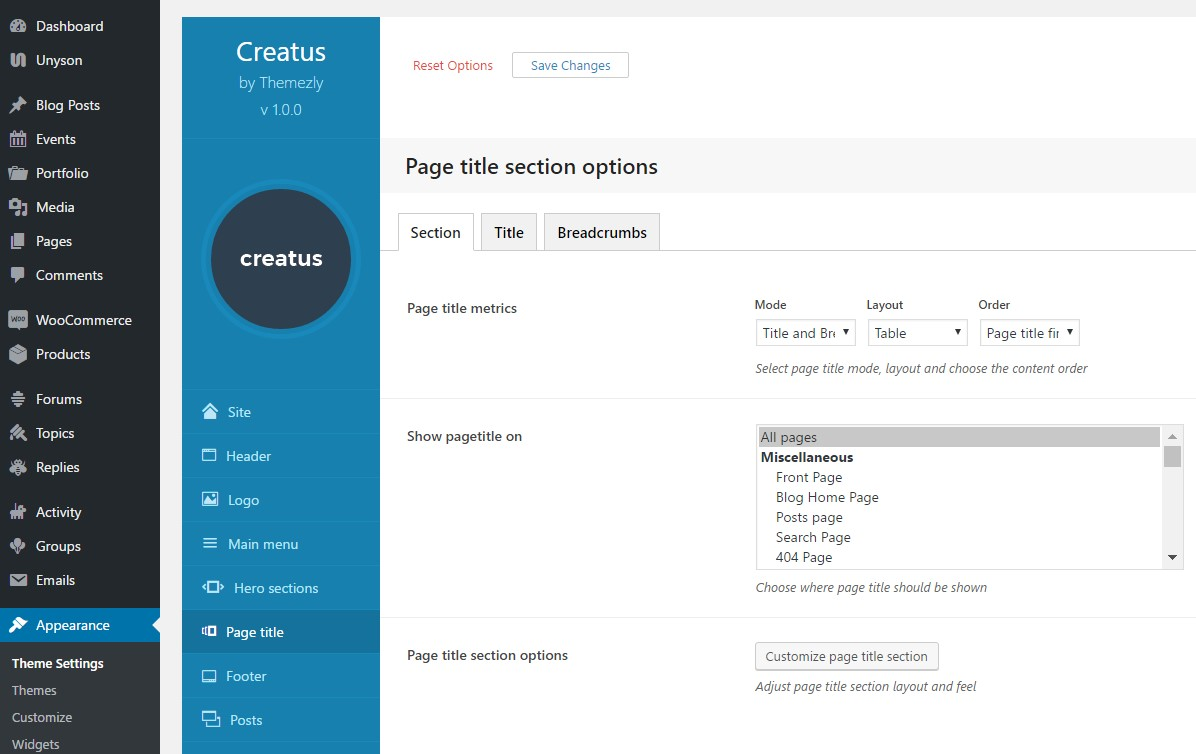
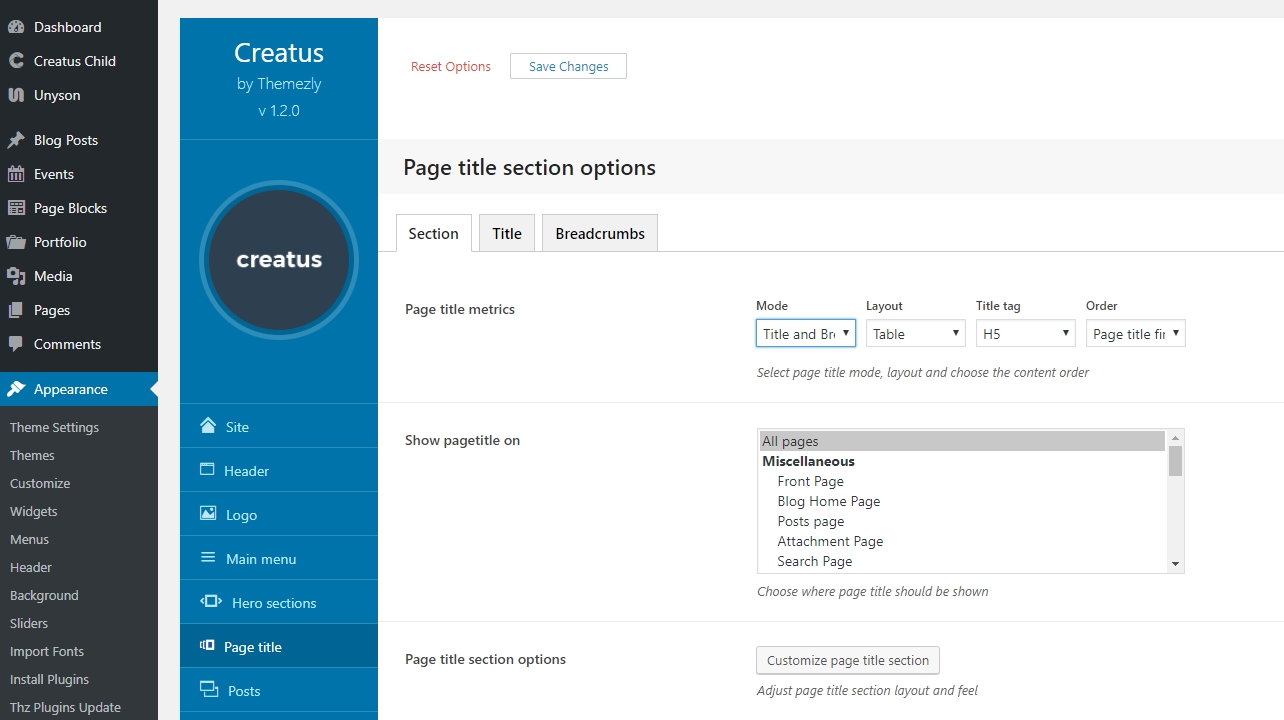
1.2.0 update

Changed region(s): [[0.0, 0.0, 0.5569, 1.0], [0.5878, 0.3972, 0.99, 0.9778], [0.0, 0.0306, 0.0928, 0.0917]]

diff --git a/pages/theme-settings/advanced-options.md b/pages/theme-settings/advanced-options.md
@@ -16,6 +16,7 @@ To access Creatus __Advanced Options__ please go to __Appearance__ >  __Theme Se
 1. <a href="#apis" class="thz-scroll">__API's__</a> &nbsp;-&nbsp; Global API's options.
 1. <a href="#optimization" class="thz-scroll">__Optimization__</a> &nbsp;-&nbsp; Global Optimization options.
 1. <a href="#cookies-consent" class="thz-scroll">__Cookies Consent__</a> &nbsp;-&nbsp; Cookies Consent options.
+1. <a href="#customizer" class="thz-scroll">__Customizer__</a> &nbsp;-&nbsp; Customizer options.
 
 &nbsp;
 
@@ -116,3 +117,16 @@ __Button__ section tab contains following options;
 1. __Create button__ &nbsp;-&nbsp; Customize the consent popup button.
 
 </div>
+
+<div id="customizer" markdown="1">
+### Customizer
+<div class="thz-doc-image max">
+<a class="thz-lightbox mfp-image" href="../../docs-media/customizer.jpg" data-mfp-title="Creatus WordPress Theme Customizer" data-modal-size="large">
+	<img src="../../docs-media/customizer.jpg" alt="Creatus WordPress Theme Customizer" />
+</a>
+</div>
+
+1. __Customizer mode__ &nbsp;-&nbsp; Set default customizer theme options mode. If mode is popups, every theme options set you see in theme panel will be opened in a customizer popup and preview is visible once the popup is saved and closed. The popup setting will also speed up the first page load when entering the customizer.
+1. __Customizer panels__ &nbsp;-&nbsp; Activate/deactivate specific customizer accordion/popup panels.
+1. __Options override notice__ &nbsp;-&nbsp; Activate/deactivate theme options override notice. While working in customizer some pages might have theme options override. This option enables the notice advising you that some of the live preview options will not be affected by customizer option value change.
+

diff --git a/pages/theme-settings/page-title-options.md b/pages/theme-settings/page-title-options.md
@@ -26,8 +26,8 @@ To access Creatus __Page Title Options__ please go to __Appearance__ >  __Theme 
 
 ### Section tab 
 <div class="thz-doc-image max">
-<a class="thz-lightbox mfp-image" href="../../docs-media/page-title-options-1-1.jpg" data-mfp-title="Creatus WordPress Theme Admin Page Title" data-modal-size="large">
-	<img src="../../docs-media/page-title-options-1.jpg" alt="Creatus WordPress Theme Page Title Section Options 1" />
+<a class="thz-lightbox mfp-image" href="../../docs-media/page-title-options-1.jpg?v=2" data-mfp-title="Creatus WordPress Theme Admin Page Title" data-modal-size="large">
+	<img src="../../docs-media/page-title-options-1.jpg?v=2" alt="Creatus WordPress Theme Page Title Section Options 1" />
 </a>
 </div>
 
